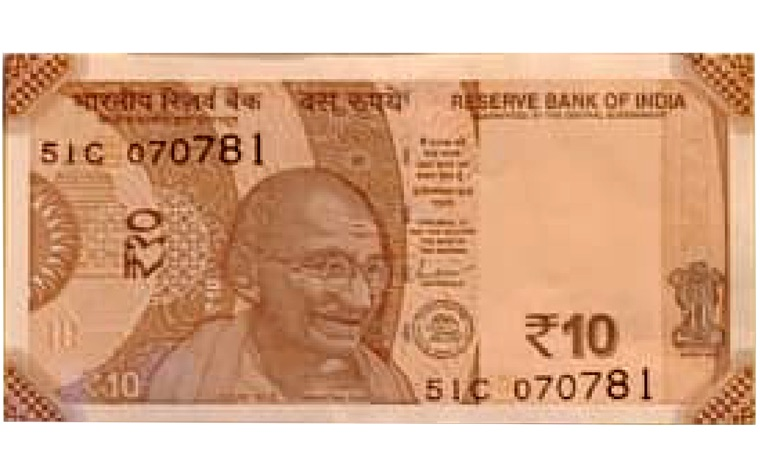
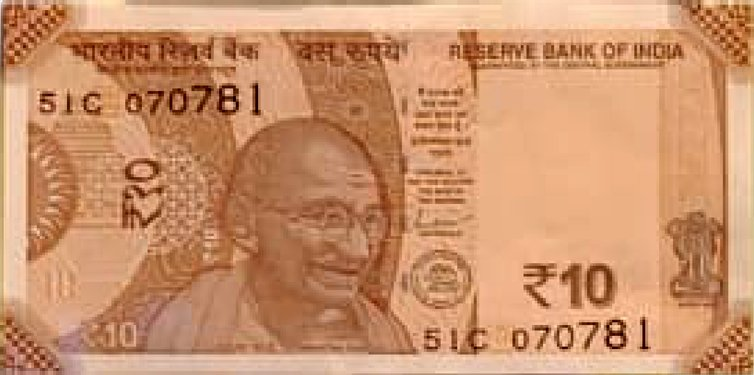
fix: note thumbnails fill their frame without white bands
The source photos had white margins above and below the note; crop them
off and give the thumbnail the 2:1 shape of current-series notes.

diff --git a/src/app/components/NoteThumbnail.tsx b/src/app/components/NoteThumbnail.tsx
@@ -35,7 +35,7 @@ export default function NoteThumbnail({ src, label }: { src: string; label: stri
         onClick={() => setOpen(true)}
         title="View the real note"
         aria-label={`View a photo of the ${label} note`}
-        className="shrink-0 w-20 md:w-24 aspect-[1.6/1] rounded-md overflow-hidden border border-foreground/15 bg-background shadow-sm hover:border-primary hover:shadow-md focus:outline-none focus:ring-2 focus:ring-primary/40 transition-all cursor-zoom-in"
+        className="shrink-0 w-20 md:w-24 aspect-[2/1] rounded-md overflow-hidden border border-foreground/15 bg-background shadow-sm hover:border-primary hover:shadow-md focus:outline-none focus:ring-2 focus:ring-primary/40 transition-all cursor-zoom-in"
       >
         {/* eslint-disable-next-line @next/next/no-img-element */}
         <img src={src} alt={`${label} note`} loading="lazy" className="w-full h-full object-cover" />
